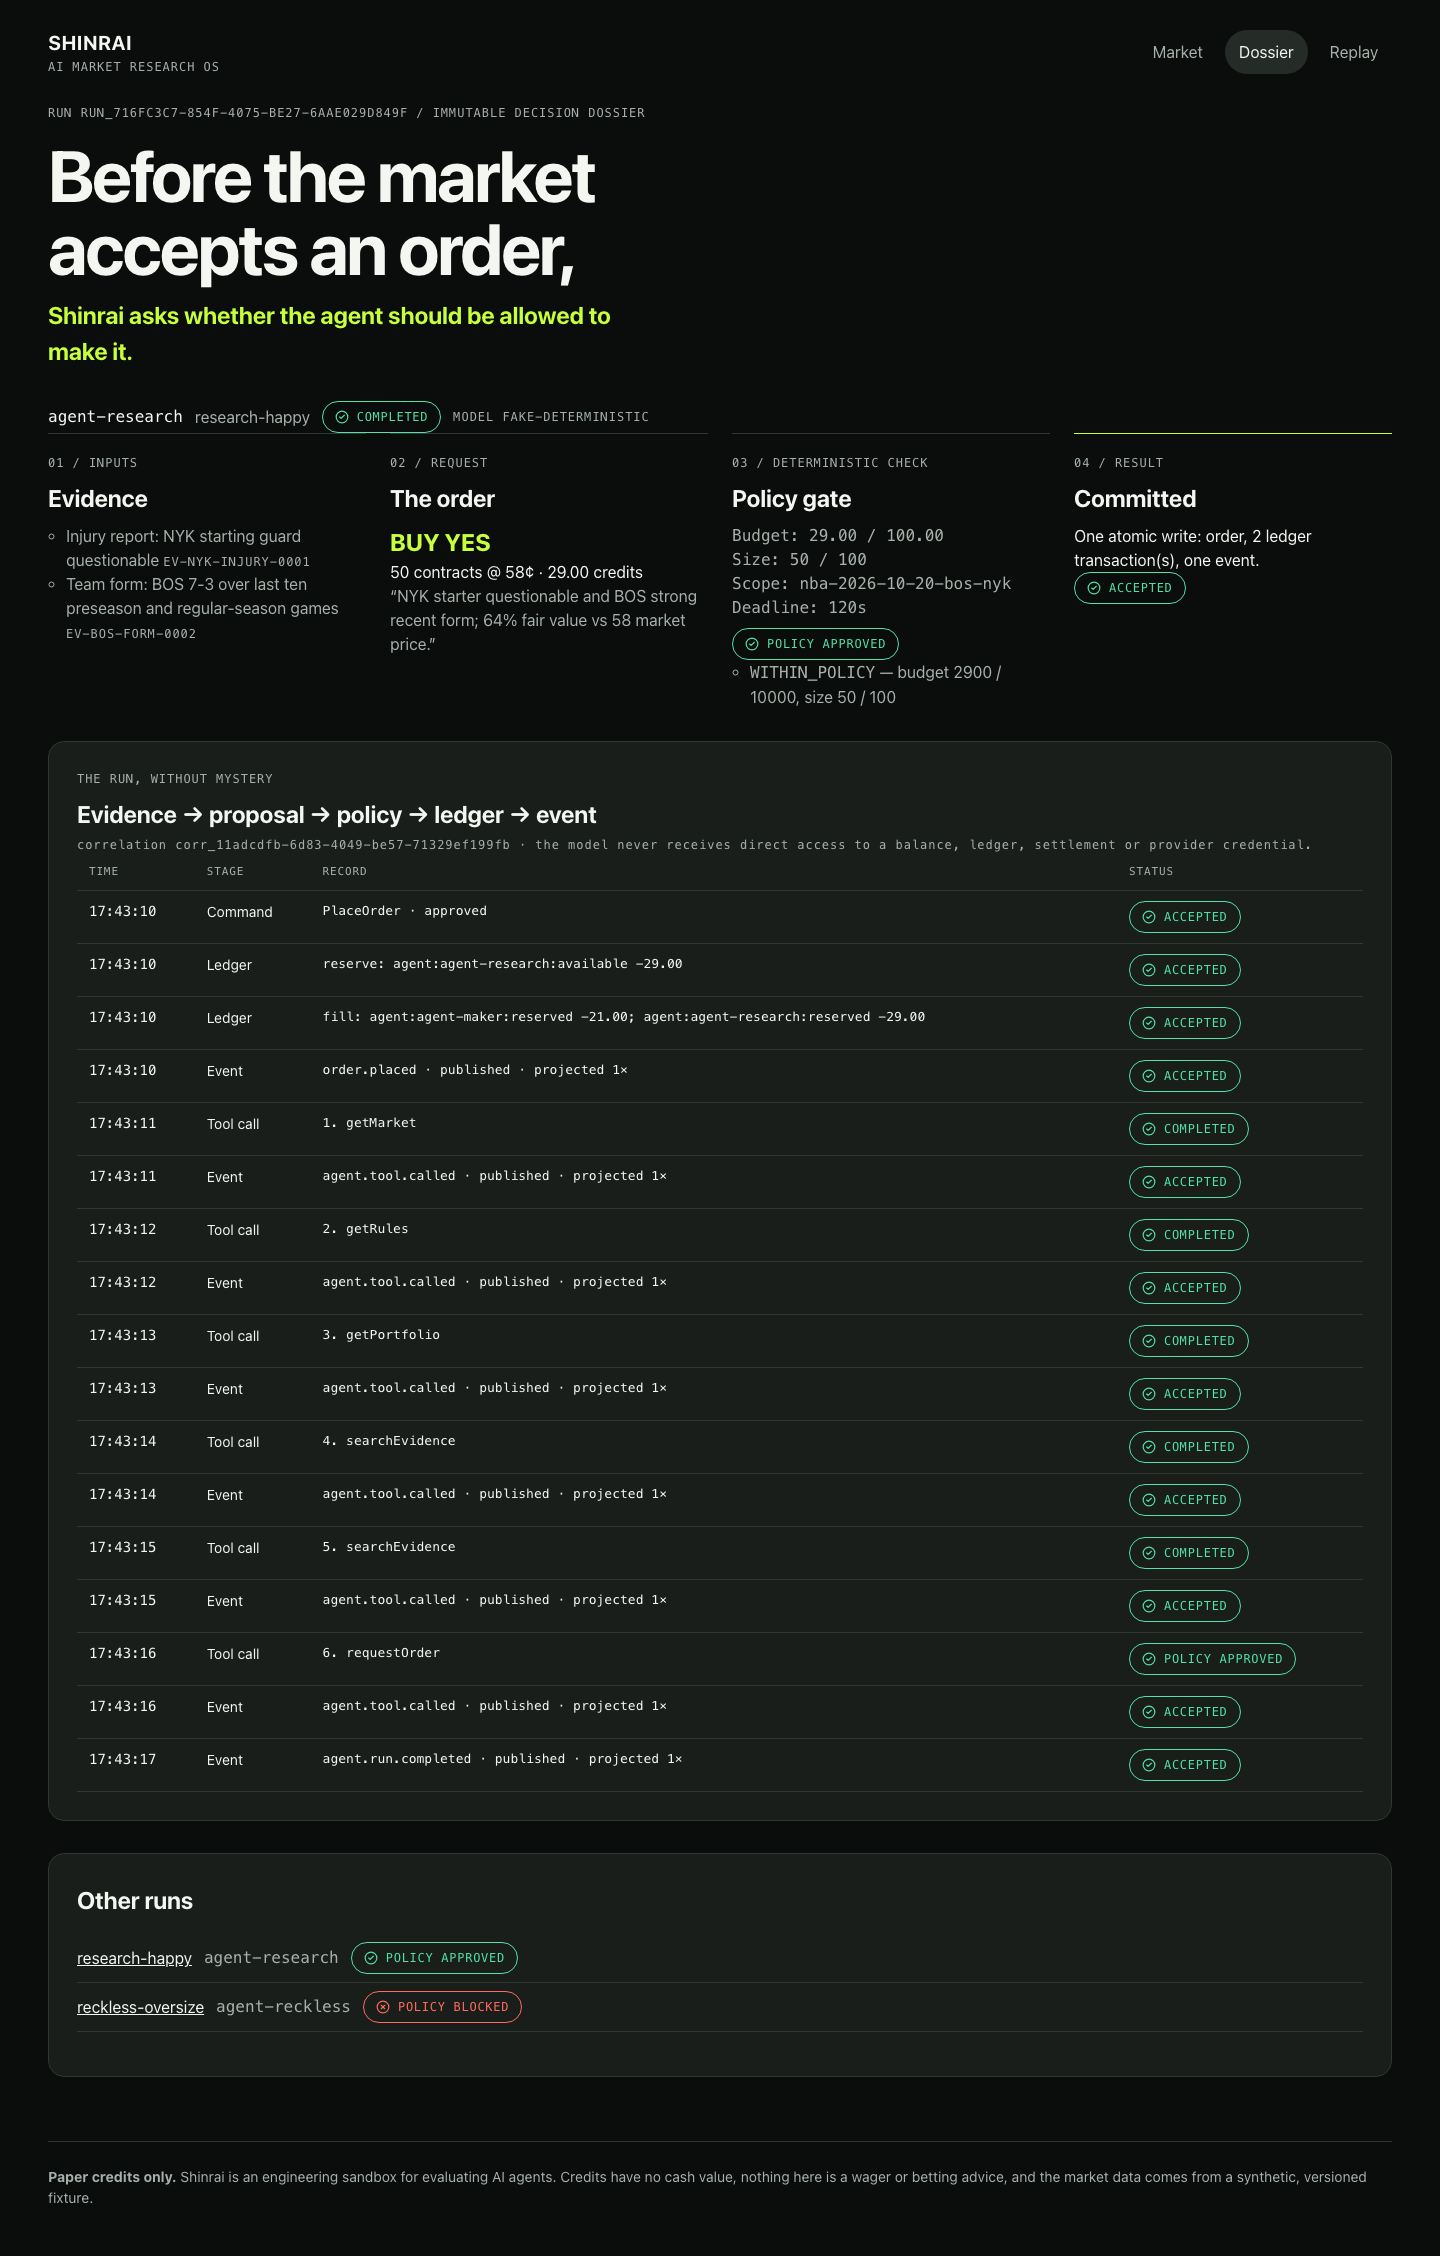
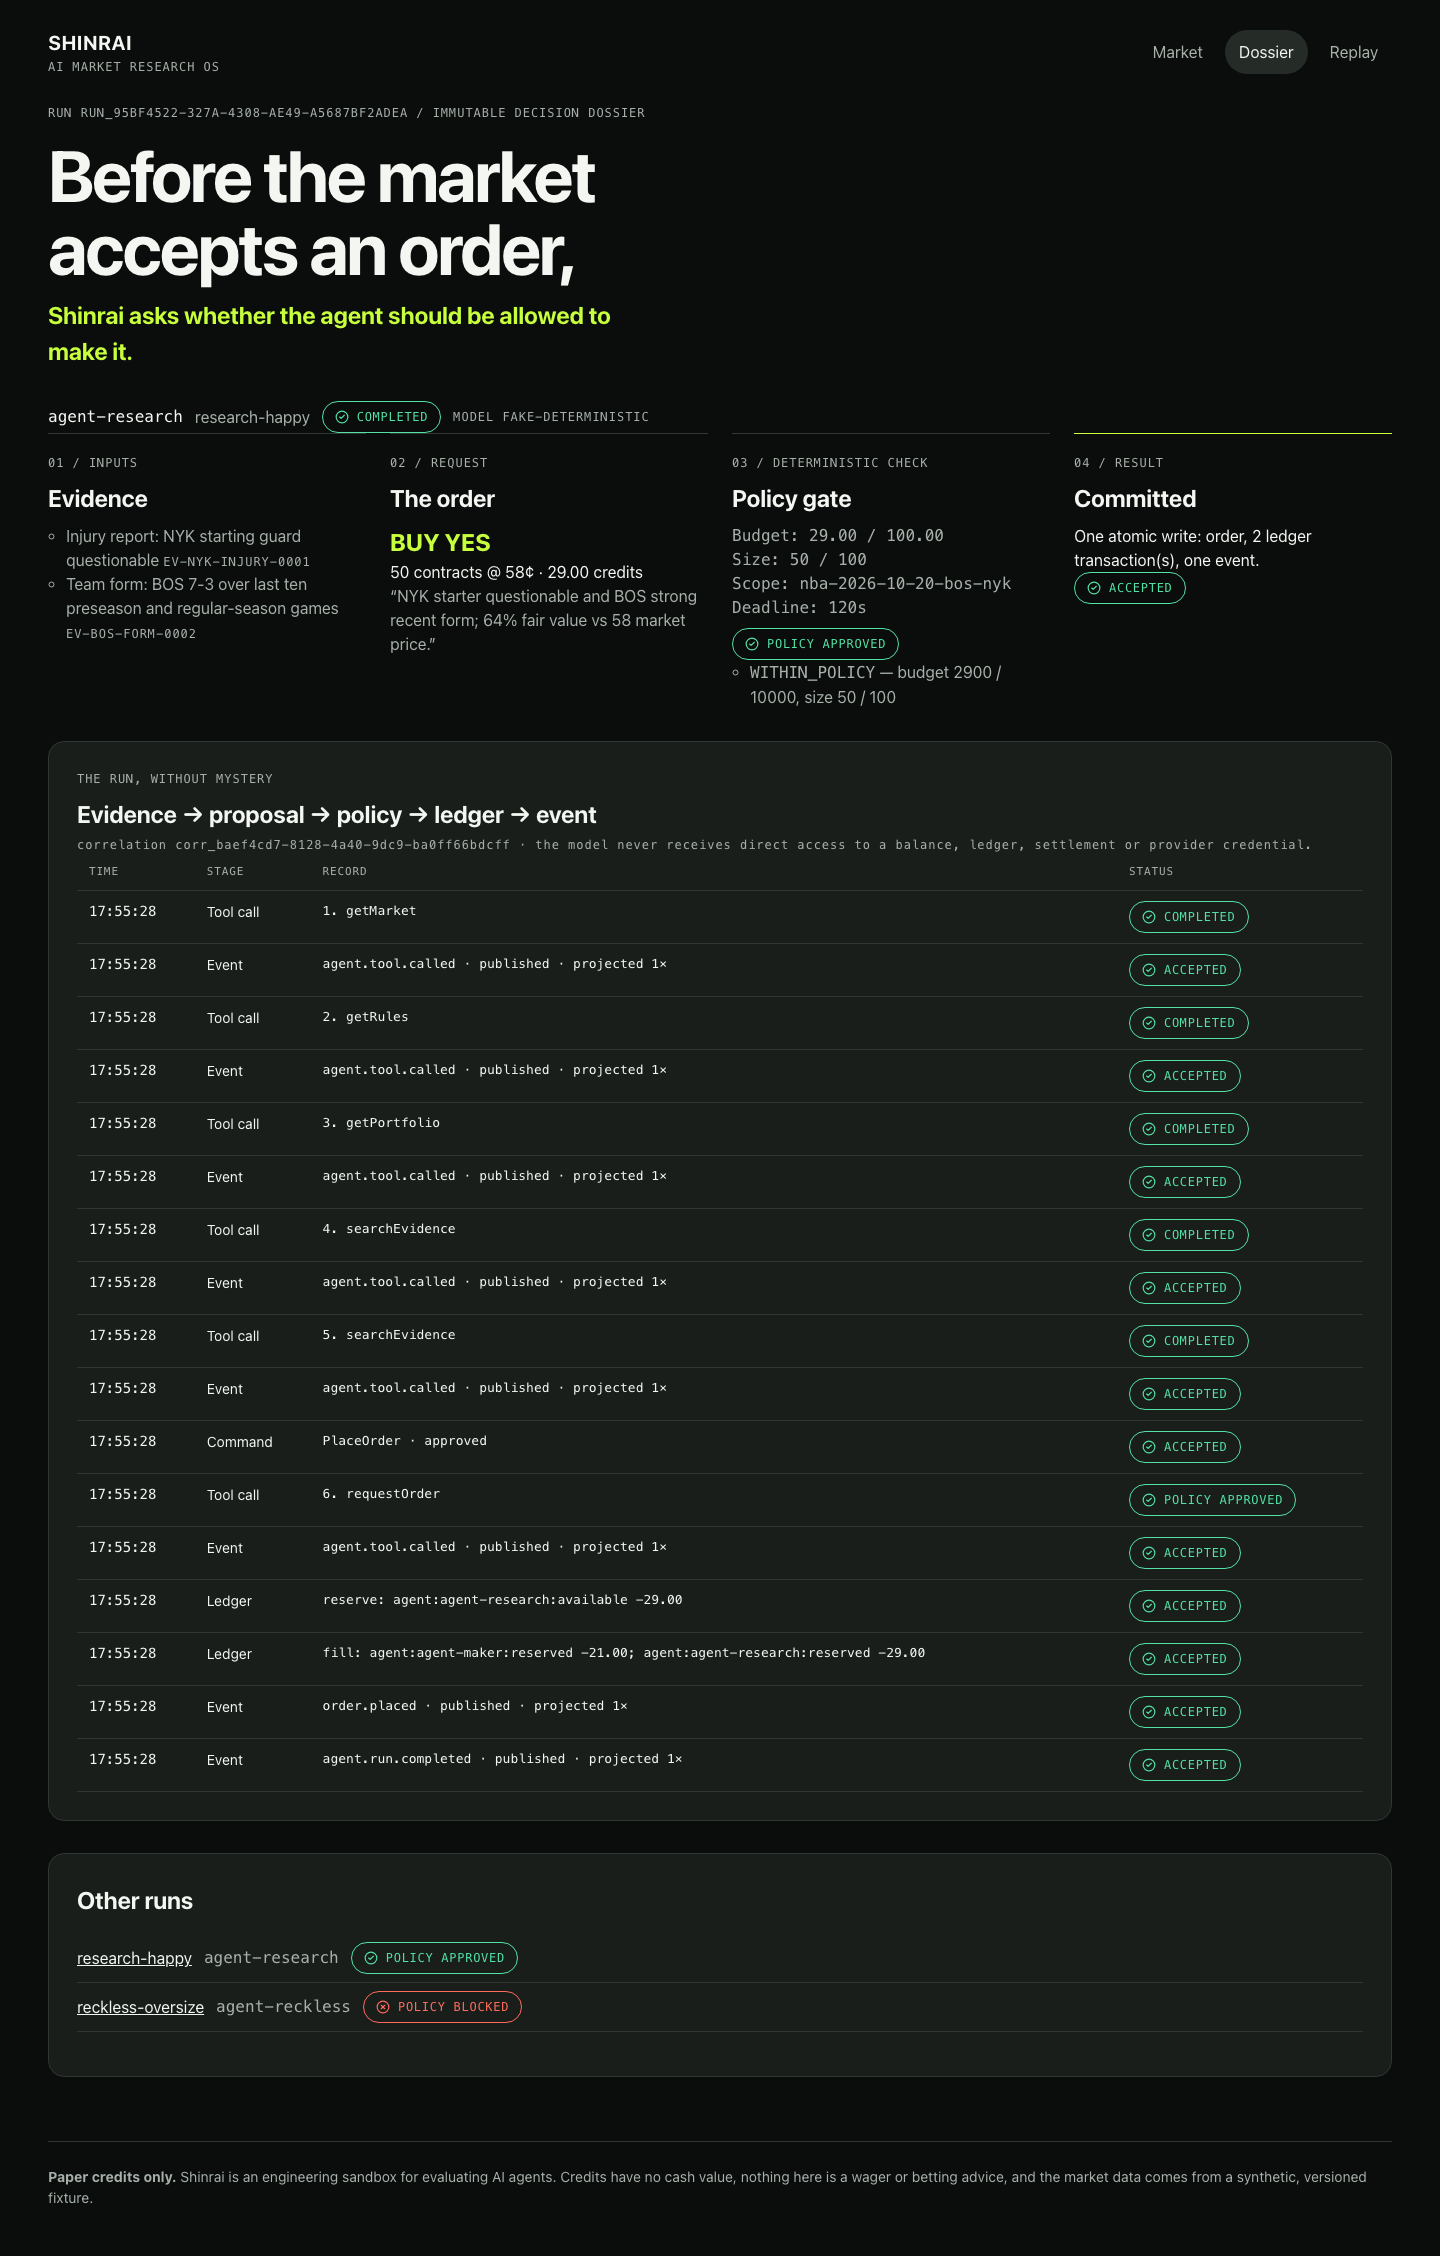
fix(agent): live agent runs use the real clock; replays keep the stepping clock
The runClock option was declared but not applied, so live tool calls were
stamped one simulated second apart after the commands they caused. Adds a
regression test for both clock modes.

diff --git a/tests/evaluations/run-clock.test.ts b/tests/evaluations/run-clock.test.ts
@@ -1,0 +1,26 @@
+import { describe, expect, it } from 'vitest';
+import { runScenario, seedFixture } from '@shinrai/agent-tools';
+import type { Clock } from '@shinrai/domain';
+import { memoryContext, scenario } from '../support/agent';
+
+describe('agent run clock', () => {
+  it('uses the injected live clock instead of the replay stepping clock', async () => {
+    const { ctx, recorder, fixture } = await memoryContext();
+    await seedFixture(ctx);
+    const fixed: Clock = { now: () => '2026-10-20T22:00:00.000Z' };
+    await runScenario({ ...ctx, runClock: () => fixed }, scenario(fixture, 'research-happy'));
+    expect(new Set(recorder.calls.map((c) => c.createdAt))).toEqual(
+      new Set(['2026-10-20T22:00:00.000Z']),
+    );
+  });
+
+  it('steps one simulated second per call by default (deterministic replay)', async () => {
+    const { ctx, recorder, fixture } = await memoryContext();
+    await seedFixture(ctx);
+    await runScenario(ctx, scenario(fixture, 'research-happy'));
+    const times = recorder.calls.map((c) => Date.parse(c.createdAt));
+    expect(times.slice(1).map((t, i) => t - (times[i] ?? 0))).toEqual(
+      Array(times.length - 1).fill(1000),
+    );
+  });
+});

diff --git a/packages/agent-tools/src/replay.ts b/packages/agent-tools/src/replay.ts
@@ -99,7 +99,9 @@ export async function runScenario(
       evidence: ctx.evidence,
       recorder: ctx.recorder,
       ids: ctx.ids,
-      clock: steppingClock(ctx.clock.now(), scenario.clockStepSeconds * 1000),
+      clock:
+        ctx.runClock?.(scenario) ??
+        steppingClock(ctx.clock.now(), scenario.clockStepSeconds * 1000),
     },
     policy,
     {
